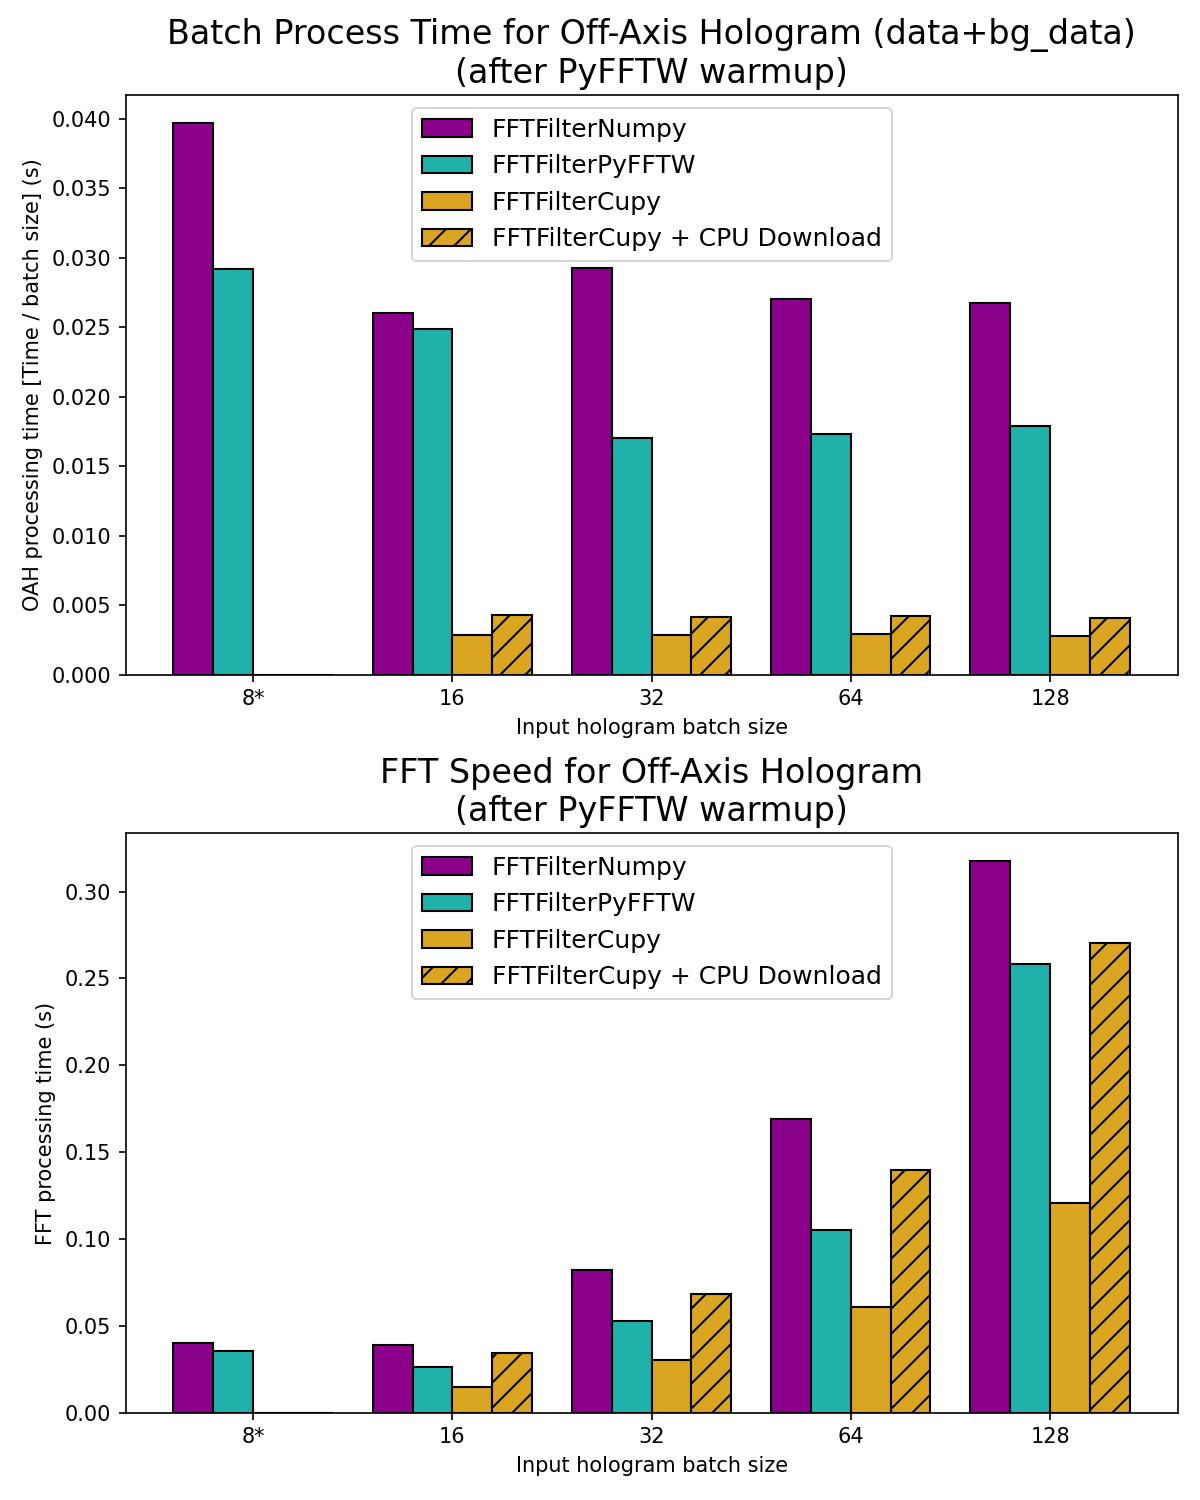
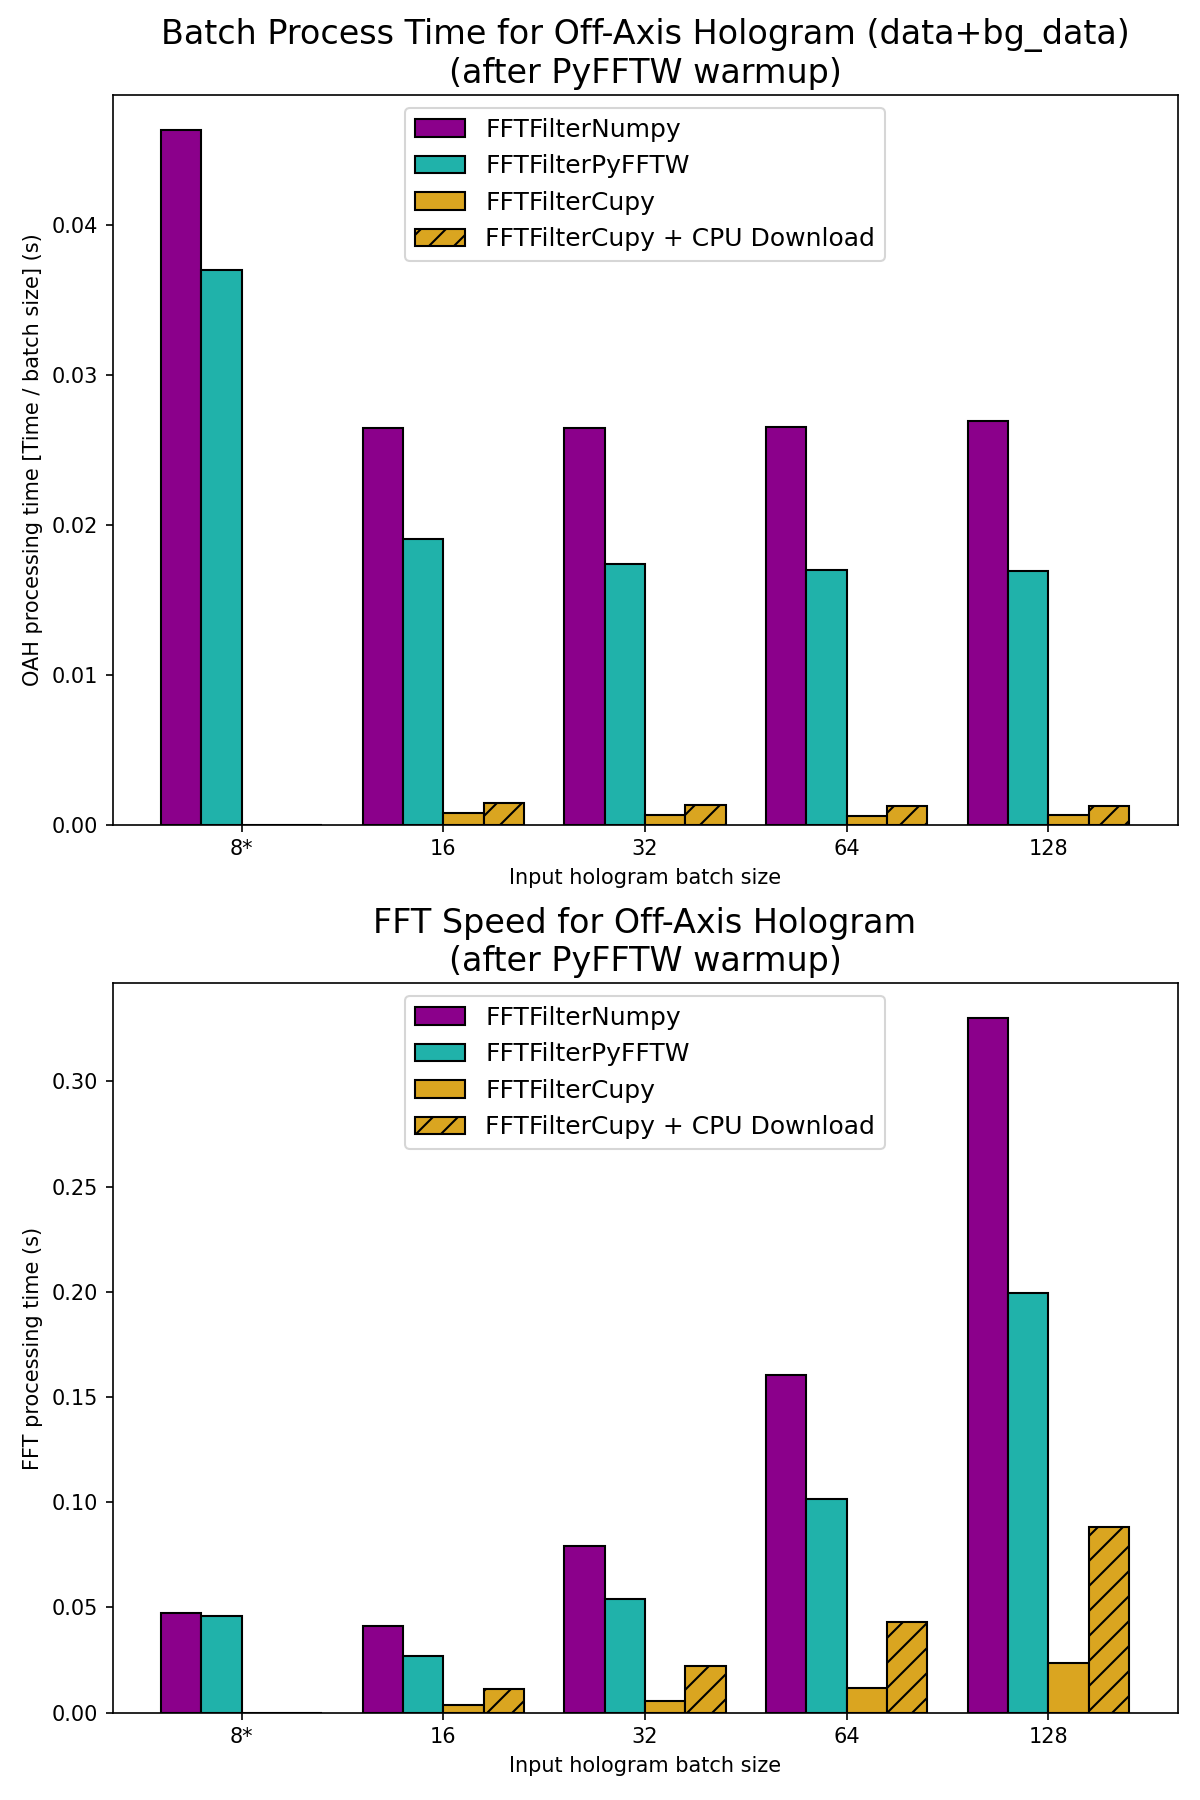
docs: run the fft batch speed example to reflect the latest changes

diff --git a/examples/fft_batch_speeds.py b/examples/fft_batch_speeds.py
@@ -158,7 +158,7 @@ edgecolor = "k"
 legend_loc = "upper center"
 fontsize = 16
 
-fig, axes = plt.subplots(2, 1, figsize=(8, 10))
+fig, axes = plt.subplots(2, 1, figsize=(8, 12))
 ax1, ax2 = axes
 
 # setup plot for batch speed comparison
